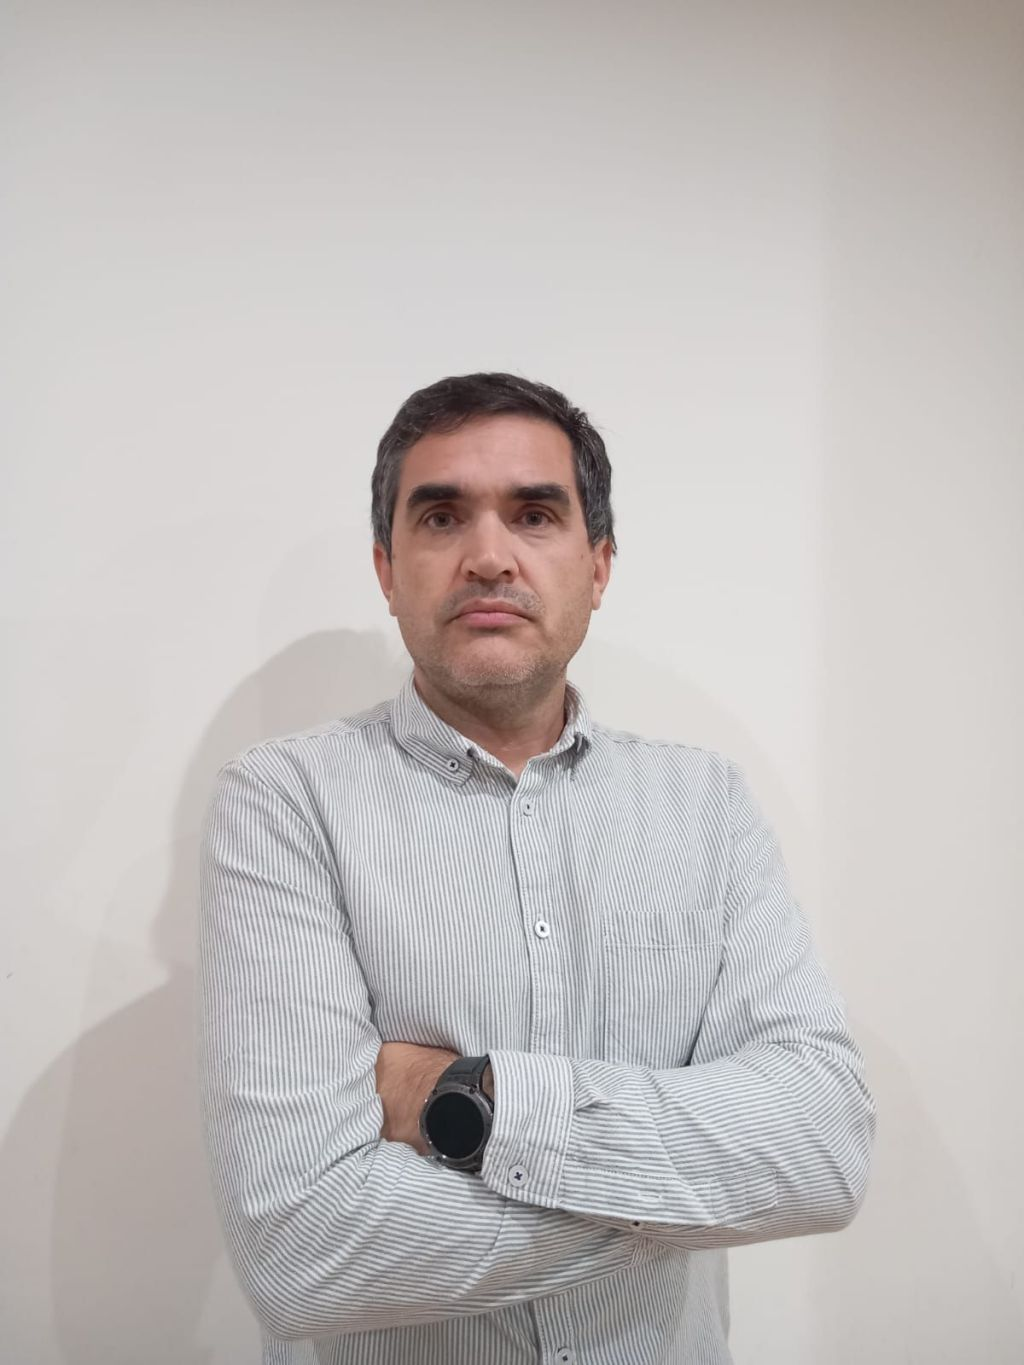
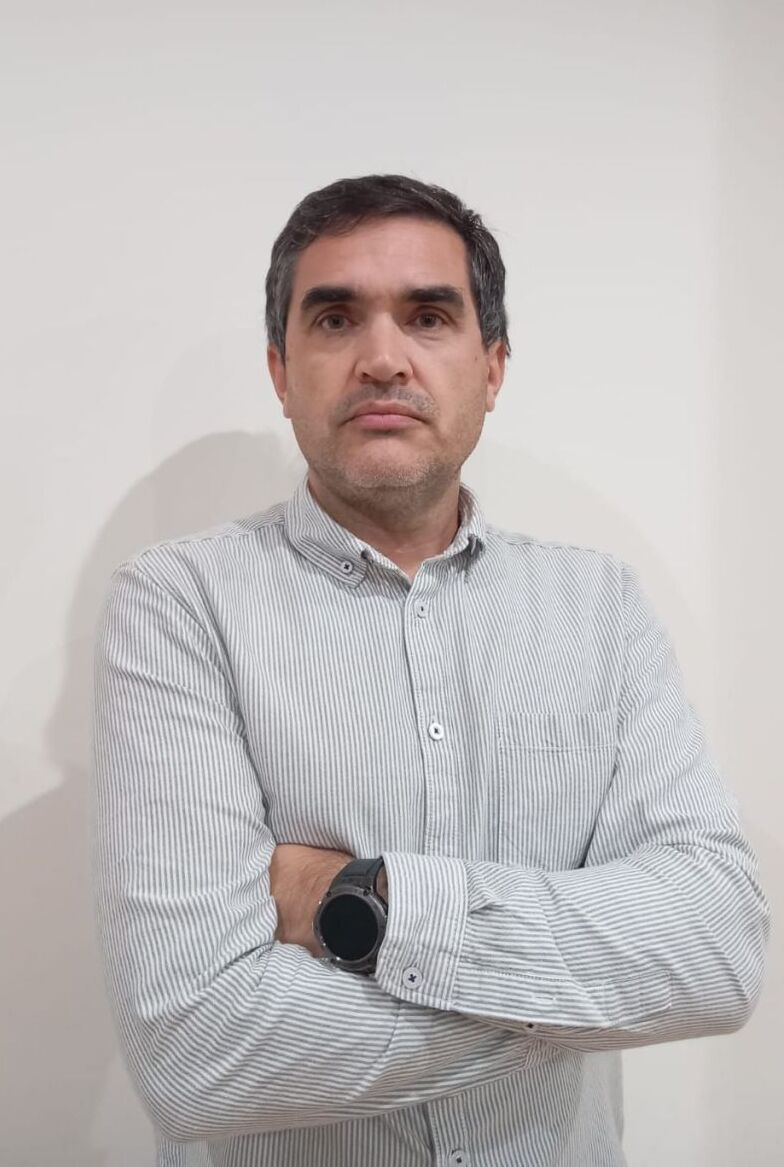
Leader Message top

diff --git a/src/assets/textConst.js b/src/assets/textConst.js
@@ -125,6 +125,11 @@ export const testimonials = [
     quote:
       'Juntei-me ao partido e ao movimento porque acredito que é possível unir "forças" e tornar o liberalismo mais "rico" e diversificado.',
   },
+  {
+    author: "Vasco, 3690",
+    quote:
+      "São já diversas as participações ativas em movimentos sociais e políticos para que algo mude no nosso país, mas, infelizmente, continuamos sem passadas firmes. Tenho uma esperança reforçada de que o Rui Malheiro vai conseguir rasgar as amarras do centralismo dentro da IL e agarrar a liderança de uma nova CE. Precisamos da sua coragem para transformar o país.",
+  },
 ];
 
 export const members = [
@@ -196,14 +201,14 @@ export const members = [
     name: "Filipe Guimarães",
     city: "Lisboa",
     photo: "Filipe_Guimarães",
-    bio: "Filipe Guimarães, 35 anos, é licenciado em Gestão e Administração de Empresas e possui uma pós-graduação em Finanças pela Universidade Católica. Após dois anos ligado ao mundo do empreendedorismo, decidiu tirar um curso de programação e, desde 2019, trabalha como software developer. Membro da Iniciativa Liberal desde as presidenciais de 2021.",
+    bio: "Filipe Guimarães, 35 anos, é licenciado em Gestão e Administração de Empresas, com pós-graduação em Finanças pela Universidade Católica, e trabalha como programador informático desde 2019 após um curso intensivo de programação; membro da Iniciativa Liberal desde 2021, ambiciona criar uma plataforma digital que centralize comunicações, fomente debates, ofereça fóruns temáticos, facilite gestão de pagamentos e donativos, inclua perfis personalizados e integre um calendário de eventos, promovendo interação organizada e garantindo contribuição significativa de todos os membros para os objetivos do partido.",
   },
   {
     title: "Vogal \n Operações e Eventos",
     name: "Marta Coutinho",
     city: "Porto",
     photo: "Marta_Coutinho",
-    bio: "Marta Coutinho, nascida em Guimarães, destaca-se pela liderança na gestão empresarial, com um histórico sólido em direção de operações e gestão industrial. Com uma carreira marcada pelo compromisso com a eficiência operacional e o crescimento sustentável, Marta tem uma visão clara para o futuro do setor industrial no país, sempre orientada pela inovação e otimização de processos. Detentora de um Executive MBA e uma especialização em Gestão de Projetos pelo ISAG, Marta atua desde 2023 como Chief Operating Officer (COO) na SDM, onde lidera estratégias operacionais que asseguram a execução eficiente de projetos dentro dos prazos e orçamentos estipulados. O seu trabalho impacta diretamente a sustentabilidade e competitividade da indústria nacional e internacional. Anteriormente, como Diretora de Produção Industrial na OTOJAL (2021-2023), supervisionou operações críticas em produção e logística, sempre com uma abordagem focada em resultados e na gestão eficaz de equipas. Esteve também à frente da gestão de mercados internacionais, como Marrocos, Tunísia e Turquia, negociando diretamente com fornecedores e clientes, demonstrando a sua capacidade de liderança em ambientes multiculturais e competitivos. Marta Coutinho distingue-se pela sua capacidade de comunicação fluente em português, inglês e espanhol, com conhecimentos básicos de francês. Está atualmente a concluir um Diploma Cambridge pela WSE, refletindo o seu compromisso com a educação contínua e o aprimoramento das suas habilidades globais. Com uma abordagem prática e metódica, Marta é reconhecida pela sua liderança colaborativa e orientação para resultados, posicionando-se como uma voz influente em temas de eficiência operacional e desenvolvimento sustentável na indústria. Ao longo da sua carreira, tem demonstrado uma visão estratégica capaz de unir inovação e tradição, oferecendo soluções práticas para os desafios contemporâneos da indústria portuguesa e europeia.",
+    bio: "Marta Coutinho destaca-se pela sua ampla experiência em liderança estratégica e gestão de projetos. Detentora de um Executive MBA e de uma especialização em Gestão de Projetos pelo ISAG, está atualmente a concluir um Diploma Cambridge pela WSE, refletindo o seu compromisso com a aprendizagem contínua e o aperfeiçoamento de competências globais. \nAo longo da sua carreira, ocupou cargos de destaque, como Diretora de Produção Industrial e Diretora de Operações, onde liderou equipas e projetos em contextos exigentes e competitivos. Atualmente, gere múltiplos projetos, assegurando a execução eficiente dentro dos prazos e orçamentos estipulados, sempre com uma visão focada na inovação e no desenvolvimento sustentável. \nCom uma sólida experiência em mercados internacionais, é fluente em português, inglês e espanhol. Marta é reconhecida pela sua abordagem metódica, liderança colaborativa e capacidade de oferecer soluções práticas para desafios complexos, posicionando-se como uma profissional influente na otimização de processos e na gestão estratégica.",
   },
   {
     title: "Vogal \n Comunicação e Marketing",
@@ -280,7 +285,7 @@ export const members = [
     name: "José Pereira",
     city: "Guimarães",
     photo: "José_Pereira",
-    bio: "José Pereira, advogado e mestre em Direito dos Contratos e da Empresa, possui sólida experiência no âmbito jurídico e empresarial. Atualmente, integra a direção do Núcleo Territorial de Guimarães, onde desempenha um papel estratégico no desenvolvimento de políticas de apoio à comunidade empresarial. Com uma carreira dedicada à consultoria jurídica, especializou-se em direito empresarial, auxiliando empresas na criação de estratégias legais eficazes e no cumprimento das suas obrigações normativas. Entre as suas áreas de expertise está a prevenção de branqueamento de capitais, um campo em que tem desenvolvido iniciativas inovadoras e ações de formação para garantir o cumprimento das melhores práticas internacionais. Apaixonado por política económica, inovação legislativa e desenvolvimento local, dedica-se a refletir sobre o impacto das políticas públicas no crescimento das regiões e na competitividade das empresas. O seu trabalho é norteado pela procura de soluções que conciliem a sustentabilidade económica e a justiça social, com um enfoque especial na modernização do tecido empresarial e na promoção da transparência nas relações comerciais. O seu envolvimento ativo em iniciativas de cooperação entre instituições públicas e privadas reflete um compromisso com o progresso das comunidades que serve.",
+    bio: "Advogado e mestre em Direito dos Contratos e da Empresa, possui uma sólida carreira no âmbito jurídico, com destaque para consultoria em direito empresarial e desenvolvimento de estratégias de compliance para empresas. Atualmente, integra a direção do Núcleo Territorial de Guimarães, desempenhando um papel estratégico de apoio ao deputado municipal e na formulação de propostas para a melhoria da comunidade local. \nCom ampla experiência em áreas sensíveis como segurança digital e proteção do sistema financeiro, dedica-se à prevenção de branqueamento de capitais e ao combate a práticas ilícitas, liderando iniciativas de formação e implementando soluções que seguem as melhores práticas internacionais. Também possui conhecimento aprofundado nos temas de justiça, migrações e segurança, colaborando na criação de estratégias jurídicas inovadoras que conciliam integração social e conformidade normativa.\nAutor de diversos artigos publicados sobre direito e tecnologias, política económica e inovação legislativa, é um entusiasta da modernização tecnológica e do impacto das políticas públicas no crescimento sustentável e na competitividade das empresas. Procura sempre soluções que promovam a transparência, a ética nas relações comerciais e o equilíbrio entre justiça social e sustentabilidade económica. \nO seu envolvimento em parcerias estratégicas entre instituições públicas e privadas reflete o compromisso com a criação de um ambiente jurídico sólido, seguro e promotor do progresso das comunidades, tanto no âmbito local quanto global. Nos tempos livres, dedica-se ao desporto e ao escutismo.",
   },
   {
     title: "Vogal \n Infraestruturas, Habitação e Turismo",

diff --git a/src/components/LeaderMessage/LeaderMessage.js b/src/components/LeaderMessage/LeaderMessage.js
@@ -2,27 +2,98 @@ import React from "react";
 import { Typography, Button } from "@mui/material";
 import Grid from "@mui/material/Grid2";
 import "./LeaderMessage.css";
-import LeaderImage from "../../assets/images/team/Rui_Malheiro.jpg";
+import LeaderImage from "../../assets/images/team/Rui_Malheiro_Transparente.png";
 import Logo from "../../assets/images/logo-branco.png";
+import LogoLista from "../../assets/images/U-logo-white.png";
+import assinaturaRui from "../../assets/images/assinaturarui_white.png";
 
 export const LeaderMessage = () => {
   return (
-    <Grid container spacing={2} className="leader-message">
-      <Grid item xs={12} className="leader-image-container">
-        <img src={LeaderImage} alt="Leader" style={{ width: "100%" }} />
-      </Grid>
-      <Grid item xs={12} className="leader-text-container">
-        <Typography variant="h4" className="leader-message-title">
-          "Mensagem do candidato"
-        </Typography>
-        <Button variant="contained" className="leader-button">
-          <a href="#team-section" className="nav-link">
-            CONHECER RESTANTE DA EQUIPA
-          </a>
-        </Button>
-        <div className="logo">
-          <img src={Logo} alt="Logo" />
-        </div>
+    <Grid container className="leader-section">
+      <Grid
+        container
+        spacing={8}
+        className="leader-message"
+        justifyContent="space-around"
+        alignItems="center"
+        style={{ width: "100%" }}
+      >
+        <Grid item xs={12} md={6} className="leader-text-container">
+          <Typography variant="h6" className="leader-message-title">
+            "Liberais, quero-vos manifestar um desejo e uma ambição: deixar um
+            Portugal mais liberal para os nossos filhos, para os nossos netos e,
+            porque não, para nós próprios!
+          </Typography>
+
+          <Typography variant="body1" className="leader-message-body">
+            O percurso do partido desde a minha entrada em 2020 tem sido
+            notável, e é um orgulho fazer parte desta família e ter contribuído
+            para que o nosso partido e todos os membros chegassem ao patamar em
+            que hoje nos encontramos! No entanto, chegou a altura de darmos um
+            passo em frente, para com coragem transformarmos Portugal num país
+            mais liberal, em que todos tenham a liberdade para serem felizes,
+            sem amarras económicas, sociais ou políticas.
+          </Typography>
+
+          <Typography variant="body1" className="leader-message-body">
+            Transformar este sonho em realidade só depende de nós. Unidos,
+            podemos concretizar este objetivo e fazer deste partido um exemplo
+            na política nacional. Estão à porta umas eleições de proximidade,
+            onde cada indivíduo terá a oportunidade de ser um elemento
+            dinamizador do partido na sua região. O indivíduo tem uma força
+            extraordinária, mas os nossos Núcleos Territoriais, com mais
+            recursos e apoio nacional, terão um papel importantíssimo nesta
+            batalha.
+          </Typography>
+
+          <Typography variant="body1" className="leader-message-body">
+            Contem comigo, com a mesma coragem de sempre, para transformar
+            Portugal!
+          </Typography>
+
+          <div className="signature">
+            <Typography variant="body1" className="leader-message-body">
+              Um abraço."
+            </Typography>
+            <img src={assinaturaRui} alt="assinaturaRui" />
+          </div>
+        </Grid>
+        <Grid item xs={12} md={3} className="leader-image-container">
+          <img
+            src={LeaderImage}
+            alt="Leader"
+            style={{ width: "100%", height: "auto" }}
+          />
+        </Grid>
+        <Grid
+          container
+          className="leader-logo-container"
+          justifyContent="space-around"
+          alignItems="center"
+          style={{ width: "100%" }}
+        >
+          <Grid item>
+            <Button
+              variant="contained"
+              className="leader-button"
+              aria-label="Conhecer restante da equipa"
+            >
+              <a href="#team-section" className="nav-link">
+                CONHECER RESTANTE DA EQUIPA
+              </a>
+            </Button>
+          </Grid>
+          <Grid item>
+            <div className="logo-lista">
+              <img src={LogoLista} alt="Logo da Lista-U" />
+            </div>
+          </Grid>
+          <Grid item>
+            <div className="logo">
+              <img src={Logo} alt="Logo da Iniciativa Liberal" />
+            </div>
+          </Grid>
+        </Grid>
       </Grid>
     </Grid>
   );

diff --git a/src/components/LeaderMessage/LeaderMessage.css b/src/components/LeaderMessage/LeaderMessage.css
@@ -1,57 +1,50 @@
-/* LeaderMessage.css */
+/* Updated LeaderMessage.css */
 .leader-message {
   background: linear-gradient(
     to bottom,
-    var(--light-blue-color),
-    var(--dark-blue-color)
+    var(--dark-blue-color),
+    var(--light-blue-color)
   );
   color: white;
-  padding: 60px 20px;
-  text-align: center;
-  min-height: calc(80vh - 2 * var(--menu-height));
-  justify-content: space-around;
-  align-items: center;
-}
-
-.leader-content {
+  padding: 40px 20px;
   display: flex;
+  flex-wrap: wrap;
+  justify-content: flex-start;
   align-items: center;
-  justify-content: space-around;
-  flex-direction: column;
-}
-
-@media (min-width: 768px) {
-  .leader-content {
-    flex-direction: row;
-  }
 }
 
 .leader-image-container {
-  border-radius: 50%;
-  overflow: hidden;
-  width: 40vh;
-  height: 40vh;
-  margin-bottom: 20px;
-}
-
-@media (min-width: 768px) {
-  .leader-image-container {
-    margin-bottom: 0;
-  }
+  max-width: 300px;
+  flex: 1 1 40%;
+  display: flex;
+  justify-content: flex-start;
+  align-items: center;
 }
 
 .leader-text-container {
-  display: flex;
-  flex-direction: column;
-  justify-content: space-between;
-  width: 60vh !important;
-  height: 40vh !important;
+  max-width: 900px;
+  flex: 1 1 60%;
   text-align: left;
+  padding: 20px;
 }
 
 .leader-message-title {
-  font-weight: bold !important;
-  /* margin-bottom: 10vh !important; */
+  font-size: 24px;
+  margin-bottom: 20px;
+  font-weight: bold;
+}
+
+.leader-message-body {
+  font-size: 16px;
+  margin-bottom: 20px;
+  line-height: 1.6;
+}
+
+.leader-logo-container {
+  display: flex;
+  justify-content: space-between;
+  width: 100%;
+  margin-top: 20px;
 }
 
 .leader-button {
@@ -69,10 +62,20 @@
 }
 
 .leader-button:hover {
-  background-color: var(--light-blue-color) !important;
+  background-color: var(--light-blue-color);
 }
 
+.signature {
+  display: flex;
+  img {
+    height: 100px;
+  }
+}
 .logo img {
-  text-align: right;
-  height: 60px !important;
+  margin-top: 20px;
+  height: 50px;
+}
+
+.logo-lista img {
+  height: 100px;
 }

diff --git a/src/App.js b/src/App.js
@@ -16,7 +16,7 @@ function App() {
         <Menu position="fixed" /> {/* Header Menu */}
         <HeroSection />
         <LeaderMessage />
-        {/* <CallToAction /> */}
+        <CallToAction />
         <Testimonials />
         <Team />
         <Footer />
